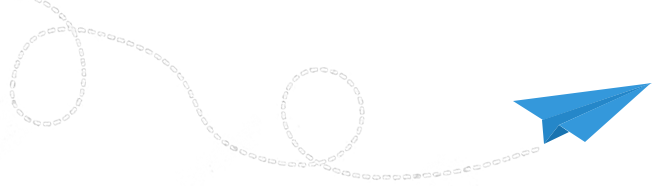
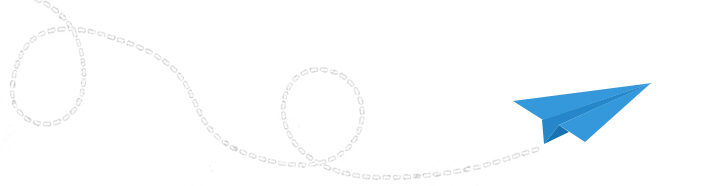
map bg fix

diff --git a/app/assets/stylesheets/welcome.scss b/app/assets/stylesheets/welcome.scss
@@ -231,7 +231,7 @@
   background-color: #2c3e50;
   background-image: url(asset-path('paper_plane.png'));
   background-repeat: no-repeat;
-    background-position: top right 60px;
+    background-position: top right;
   background-size: 27%;
   padding:3.4% 5.5%;
 }
@@ -287,6 +287,11 @@ font-weight: bold;
   transition: all 0.15s linear;
 }
 
+.map {
+    display: inline-block;
+    overflow: hidden;
+    float: left;
+}
 
 .map .box {
   position: absolute;
@@ -297,6 +302,7 @@ font-weight: bold;
   left: 20px;
   box-shadow: 0px 0px 1px 1px rgba(0, 0, 0, 0.1);
   padding: 15px 15px 15px 40px;
+  height:111px;
 }
 
 #arroyohondo .box {

diff --git a/app/assets/stylesheets/mobile.scss b/app/assets/stylesheets/mobile.scss
@@ -7,7 +7,7 @@
 }
 
 
-@media screen and (max-width: 768px) {
+@media screen and (max-width: 767px) {
 
 	#header {
 		    background: #fff !important;
